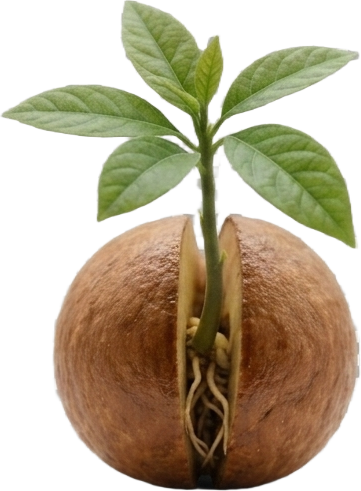
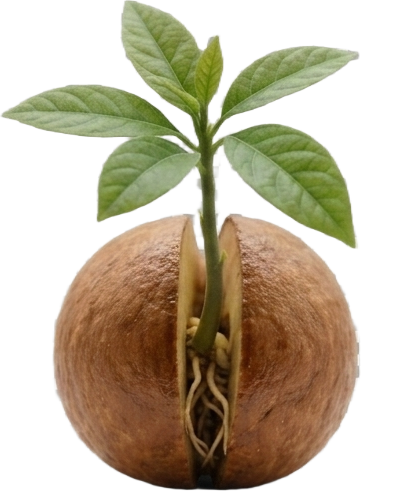
Fix seedTall's off-center pit: pad source art, not compensate downstream
Direct report with a screenshot: "the launcher doesn't appear centered
in the icon background." Measured, not guessed: the pit's own true
horizontal center sat ~26px right of the raw trimmed asset's own
geometric center (a stray leaf/tendril pixel pushed the trim's right
boundary out further than the pit itself did), so every consumer that
centers the whole file on itself -- the launcher icon composites and
the in-app TabHub button alike -- inherited the same left-shifted look,
even though my own compositing math was centering correctly around
whatever bounding box it was given.

Fixed at the source: padded 51px of transparent space onto the file's
right edge (assets/branding/seed-tall-transparent.png, 361x491 ->
412x491) so the pit's own center now matches the file's own geometric
center. Verified numerically (pit center measured at 205.6 against a
206 canvas center, not just eyeballed) before regenerating anything
downstream. TAB_HUB_ICON_PIXEL_DIMENSIONS.seedTall updated to match.
Launcher icon (icon.png, android-icon-foreground.png, android-icon-
monochrome.png) recomposited from this corrected source, same fill
fraction as before.

Hit and fixed a real bug in my own compositing script along the way:
a first padding attempt used a plain `New-Object Bitmap` without an
explicit ARGB pixel format or a Clear(Transparent) call, so the new
canvas area came up opaque black instead of transparent -- caught via
a numeric alpha check before it reached any deployed file.
[…]

diff --git a/constants/tabHubIcons.ts b/constants/tabHubIcons.ts
@@ -209,8 +209,19 @@ const TAB_HUB_ICON_PIXEL_DIMENSIONS: Partial<Record<TabHubIconChoice, readonly [
   // the other seed icon from the app entirely." This choice does NOT use
   // these dimensions to derive its render HEIGHT the way every other icon
   // does -- see TAB_HUB_ICON_HEIGHT_OVERRIDE below -- only its aspect ratio
-  // (361:491) is read from this pair.
-  seedTall: [361, 491],
+  // is read from this pair. Widened from 361x491 to 412x491 the same day,
+  // after a device screenshot of the launcher icon showed the pit sitting
+  // noticeably left of center -- the pit's own true center measured ~26px
+  // right of the raw trimmed file's own geometric center (a stray leaf/
+  // tendril pixel had pushed the trim's right boundary out further than
+  // the pit itself), so every consumer that centers the whole file on
+  // itself inherited that same left-shifted look. Fixed at the source by
+  // padding 51px of transparent space onto the right edge (measured, not
+  // guessed: left margin to the pit was 53px, right margin was 2px before
+  // this), so the pit's own true center now matches the file's own
+  // geometric center and every consumer is correct without needing its
+  // own compensating offset.
+  seedTall: [412, 491],
   // The 8 garden/pollinator icons, 2026-08-12 -- real, individually
   // measured pairs off the actual final (already-downsized) files, the
   // same jimp-based methodology as every other entry in this table, not
